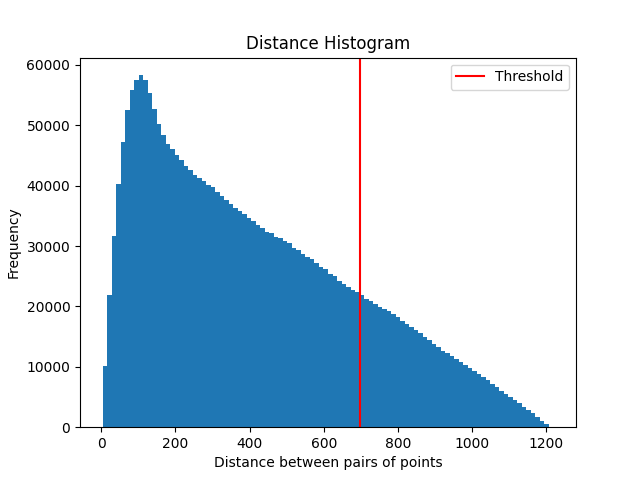
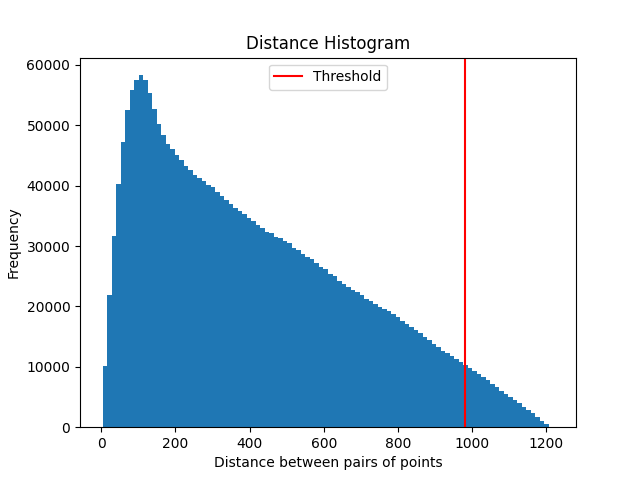
...for bram...

Changed region(s): [[0.7188, 0.125, 0.875, 0.2188], [0.4688, 0.125, 0.5938, 0.2188], [0.4375, 0.1562, 0.4688, 0.1875]]

diff --git a/scrips/manual_clustering.py b/scrips/manual_clustering.py
@@ -110,7 +110,7 @@ for item in layer_0_results_d:
 mean_scores_0_d = np.mean(scores_0_d)
 std_scores_0_d = np.std(scores_0_d)
 #Threshold
-n_std_d = 1
+n_std_d = 2
 threshold_distance = mean_scores_0_d + n_std_d * std_scores_0_d
 # Plot histogram
 plt.figure()
@@ -270,11 +270,11 @@ print("Cluster sizes:", [len(c) for c in clusters])
 """Explanation for myself/group: We currently have a graph with all branches (connections between couples of nodes) 
 that satisfy both thresholds. For each layer, the iteration will check if that branch (between two nodes/fibres) satisfies
 again both set thresholds to determine whether a fibre is clusterable throughout the full length."""
-
+"""
 #Define constants
 number_of_layers = 130
 failure_fraction_allowed = 0.05
-threshold_multiplier = 1.05 #1.05 removed 3 fibers only
+threshold_multiplier = 1.01 #1.05 removed 3 fibers only
 failure_limit = failure_fraction_allowed * number_of_layers
 number_of_fibres = G_both.number_of_nodes()
 clusters_updated = []
@@ -394,4 +394,4 @@ clusters_updated.append(list(remove_arr))
 
 print("Amount of updated clusters:", len(clusters_updated))
 print(clusters_updated)
-print("Updated cluster sizes:", [len(c) for c in clusters_updated])
+print("Updated cluster sizes:", [len(c) for c in clusters_updated])"""

diff --git a/scrips/clustering_parameters.py b/scrips/clustering_parameters.py
@@ -108,7 +108,8 @@ def manual_clust(pct_d, pct_a):
     plt.hist(scores_0_d, bins=100)
     plt.axvline(threshold_distance) 
     plt.title("Distance Histogram") 
-    #plt.show()
+    plt.show()
+    plt.close()
     print("Threshold_Distance", threshold_distance)
     
     scores_0_a = []
@@ -124,7 +125,7 @@ def manual_clust(pct_d, pct_a):
     plt.hist(scores_0_a, bins=100)
     plt.axvline(threshold_angle)  
     plt.title("Angle Histogram")
-    #plt.show()
+    plt.show()
     plt.close()
     print("Threshold_Angle", threshold_angle)
 
@@ -253,8 +254,8 @@ def manual_clust(pct_d, pct_a):
     
     return len(list(nx.isolates(G_both))),len(clusters)
 
-pct_d = [10]
-pct_a = [99]
+pct_d = [95]
+pct_a = [95]
 n_clusters = []
 n_isolated = []
 for d in pct_d:
